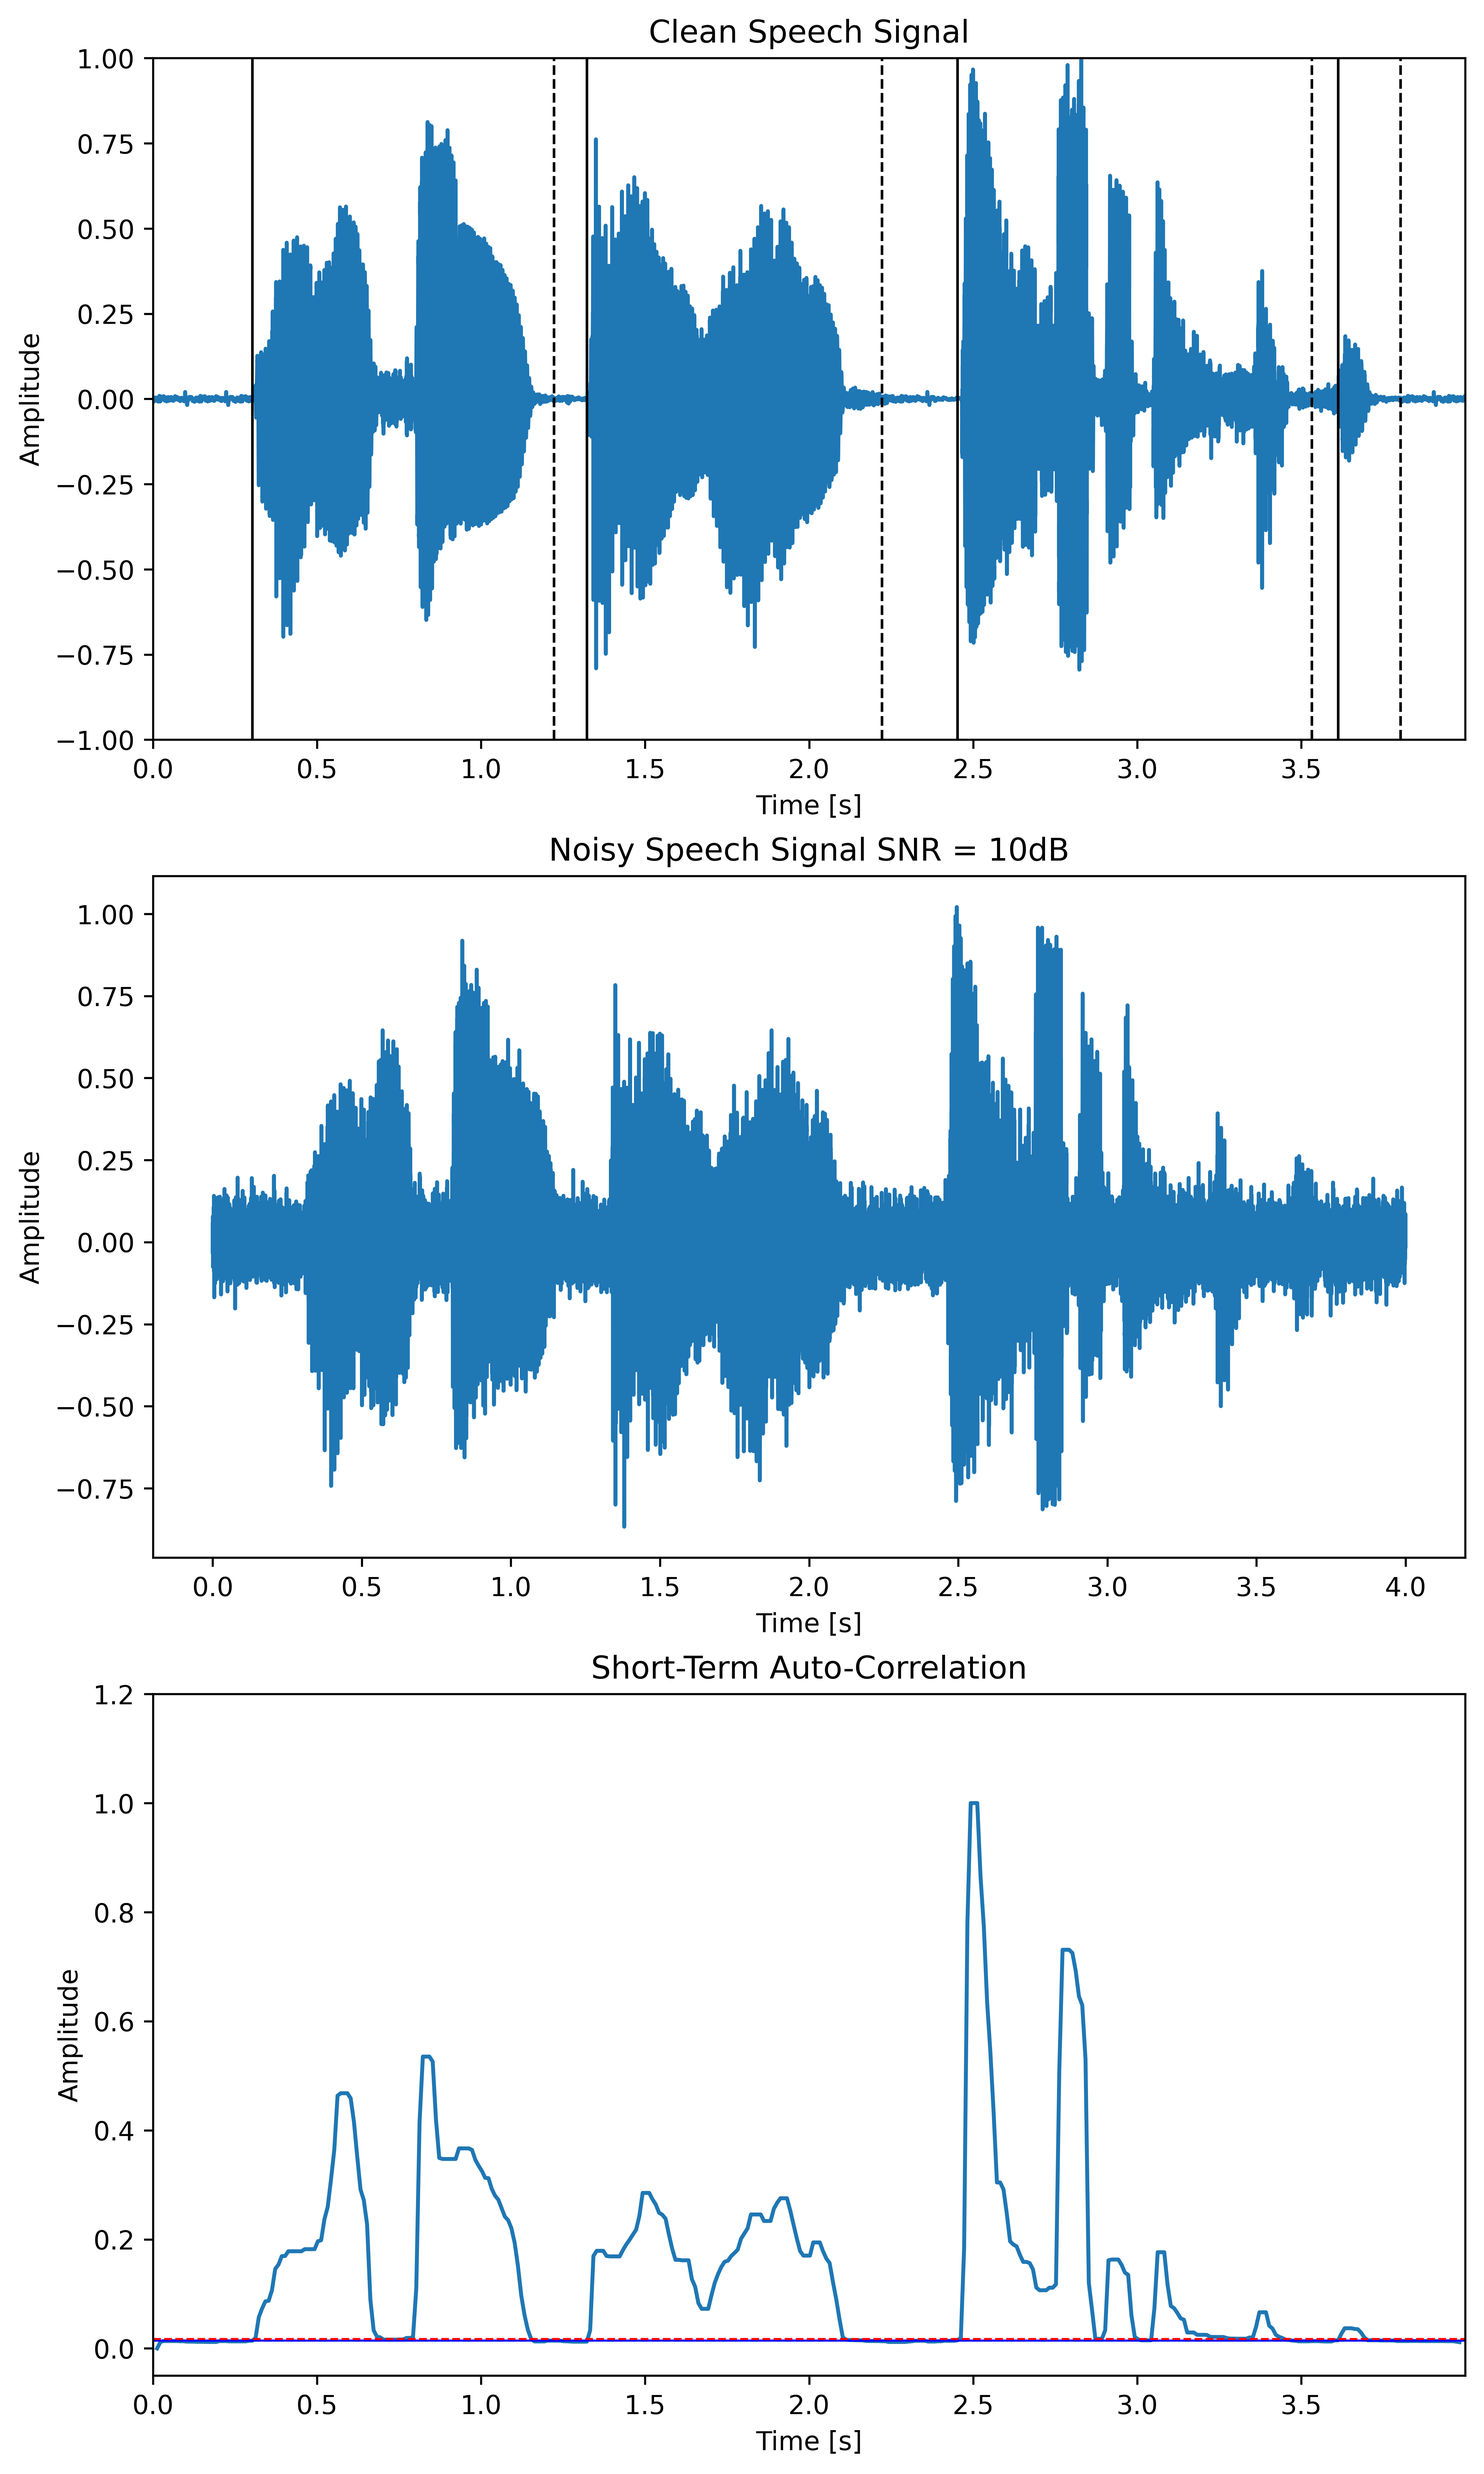
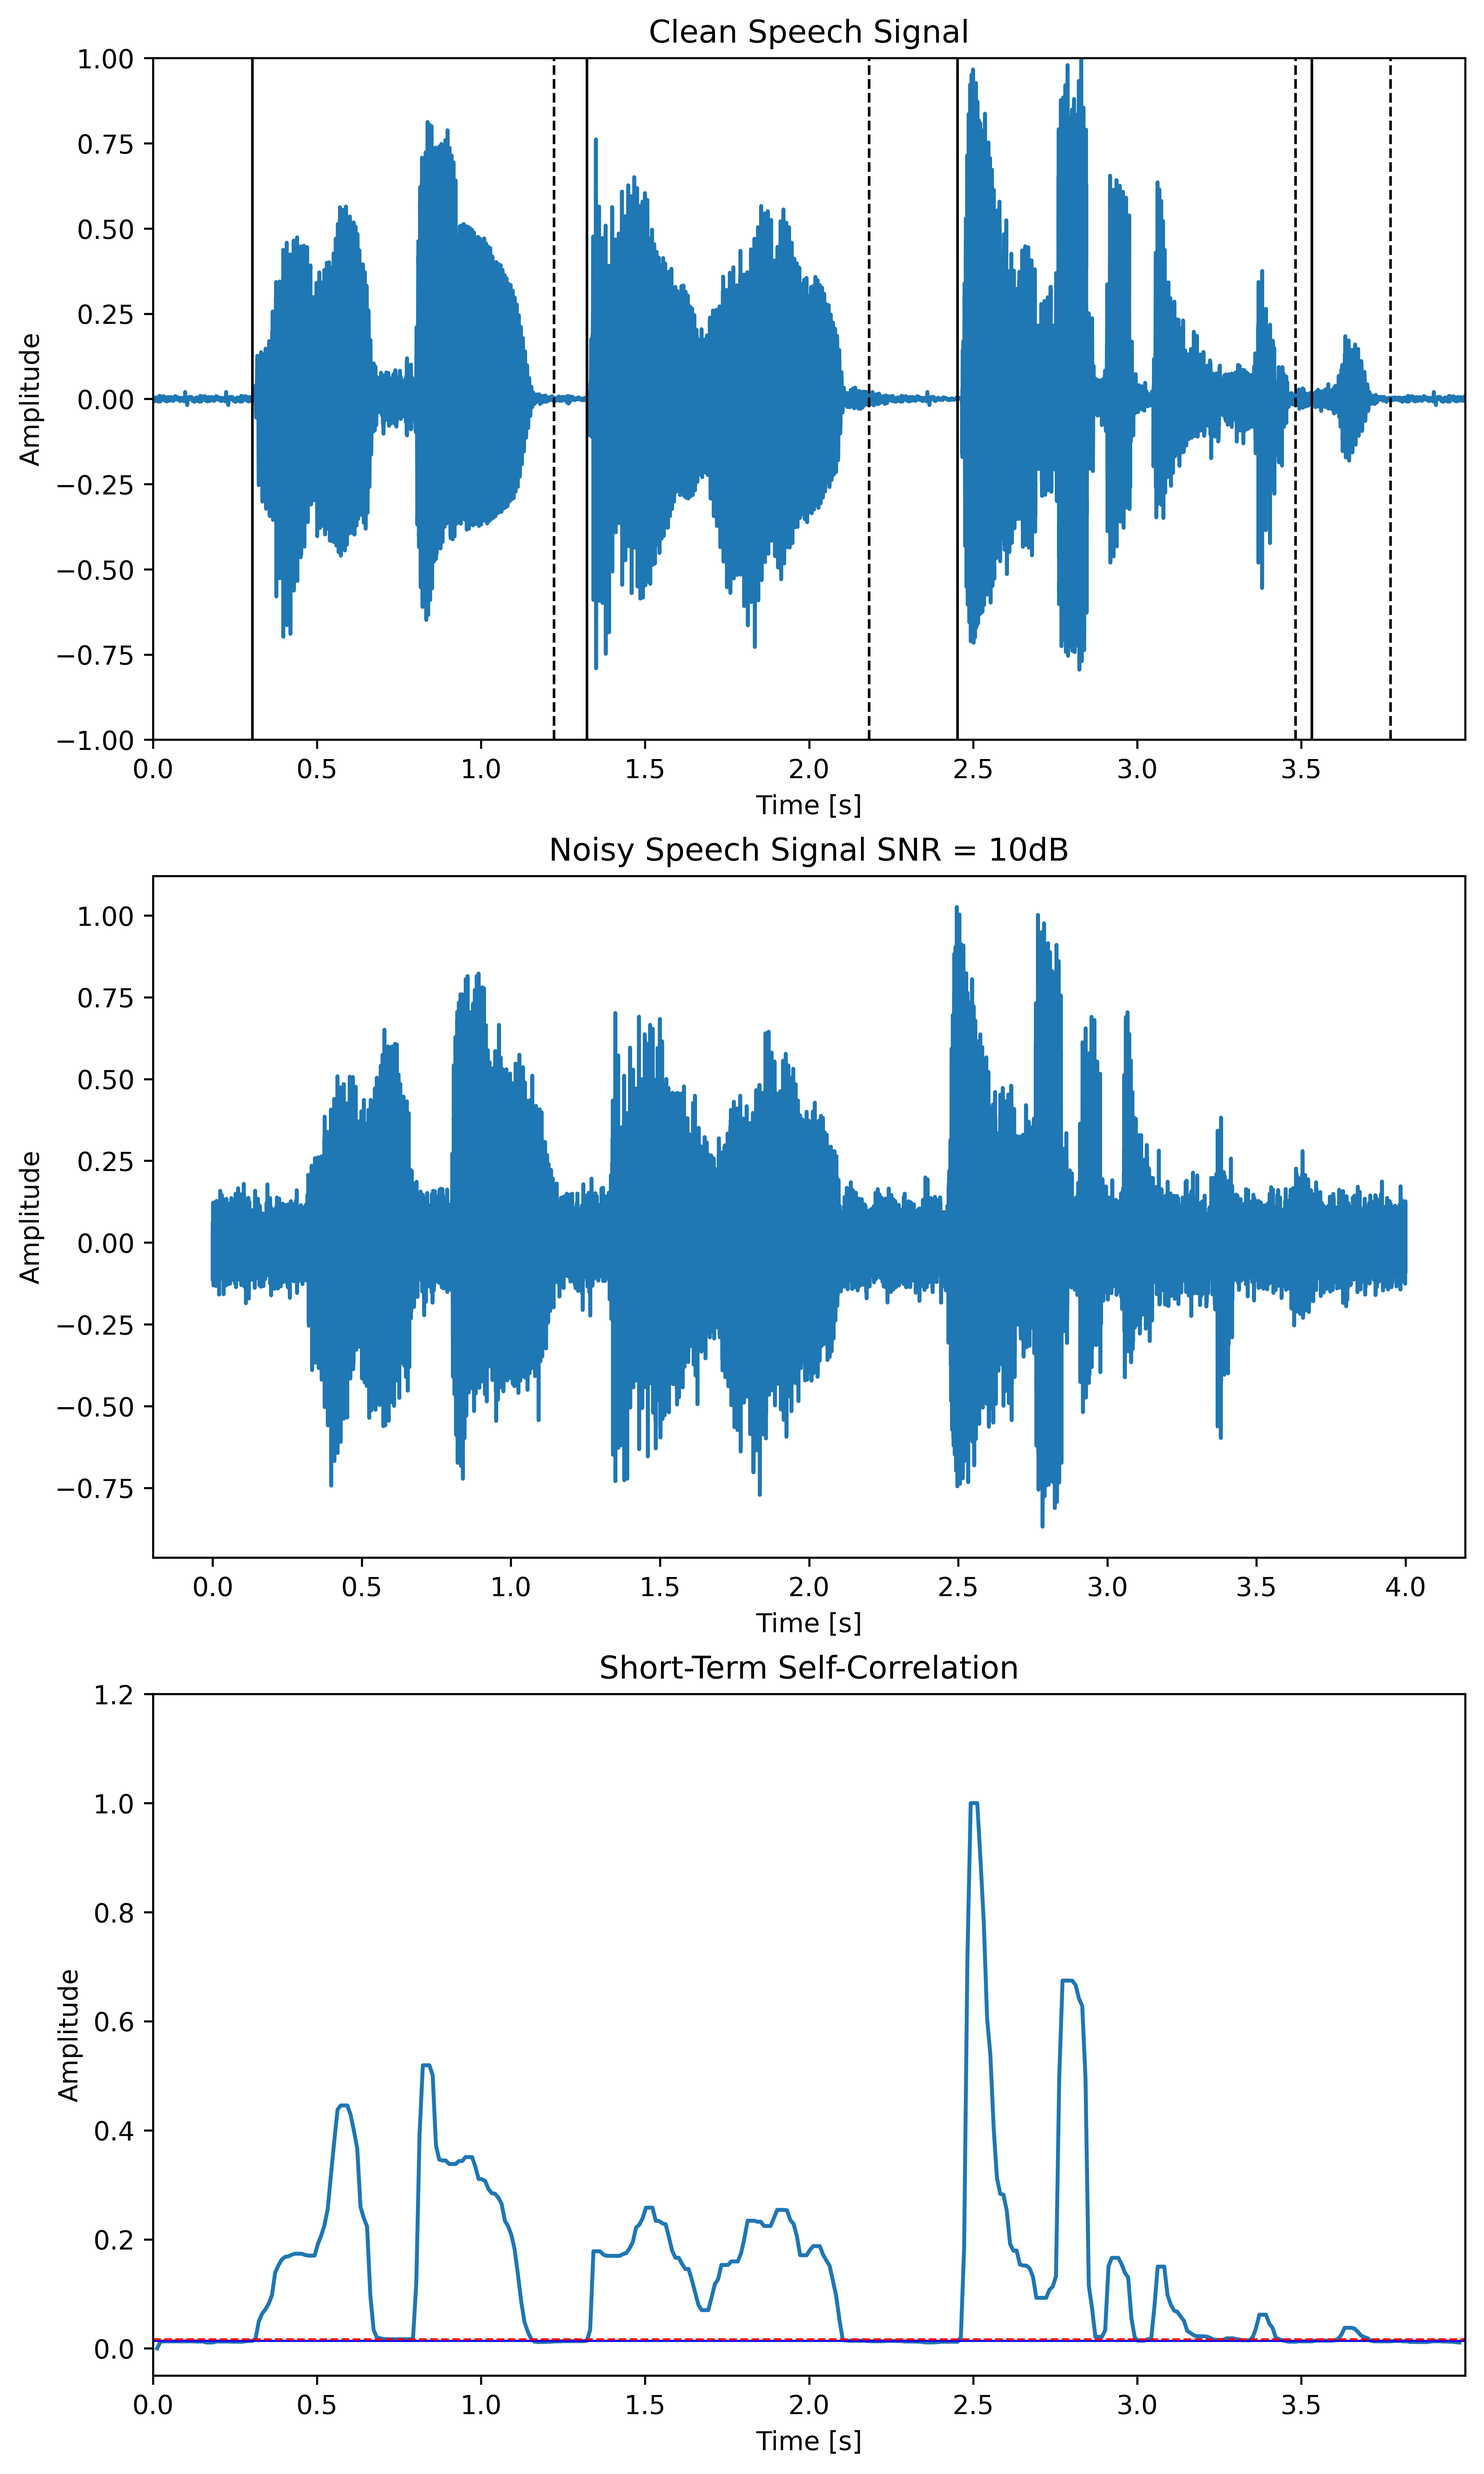
VAD(correlate)

diff --git a/Chapter6_EndpointDetection/pr6_3_4.py b/Chapter6_EndpointDetection/pr6_3_4.py
@@ -1,0 +1,90 @@
+#
+# pr6_3_4
+
+#
+# pr6_3_3
+
+from Universal import *
+from Noisy import *
+from VAD import *
+
+
+
+if __name__ == '__main__':
+	# Set_I
+	IS = 0.25  # unvoice segemnt length
+	wlen = 200  # frame length 25ms
+	inc = 80  # frame shift
+	filename = 'bluesky1.wav'
+	SNR = 10
+	
+	# PART_I
+	speech = Speech()
+	xx, fs = speech.audioread(filename, 8000)
+	xx = xx - np.mean(xx)  # DC
+	x = xx / np.max(xx)  # normalized
+	N = len(x)
+	time = np.arange(N) / fs
+	noisy = Noisy()
+	signal, _ = noisy.Gnoisegen(x, SNR)  # add noise
+	wnd = np.hamming(wlen)  # window function
+	overlap = wlen - inc
+	NIS = int((IS * fs - wlen) / inc + 1)  # unvoice segment frame number
+	y = speech.enframe(signal, list(wnd), inc).T
+	fn = y.shape[1]  # frame number
+	frameTime = speech.FrameTime(fn, wlen, inc, fs)  # frame to time
+	
+	R1 = np.zeros(fn)
+	for k in range(1, fn):
+		u = y[:, k]  # one frame
+		ru = np.correlate(u, u, 'full')  # self-correlate
+		ru0 = ru[wlen - 1]
+		ru1 = np.max(ru[wlen + 16 : wlen + 133])        # first secondary peak
+		R1[k] = ru0 / ru1
+	
+	vad = VAD()
+	Rum = vad.multimidfilter(R1, 20)  # smoothing
+	Rum = Rum / np.max(Rum)  # normalized
+	thredth = np.max(Rum[0: NIS])  # threshold
+	T1 = 0.95 * thredth
+	T2 = 0.75 * thredth
+	voiceseg, vsl, SF, NF = vad.vad_param1D_revr(Rum, T1, T2)
+	
+	# figure
+	plt.figure(figsize=(9, 16))
+	plt.subplot(3, 1, 1)
+	plt.plot(time, x)
+	plt.axis([0, np.max(time), -1, 1])
+	for k in range(vsl):
+		nx1 = voiceseg['begin'][k]
+		nx2 = voiceseg['end'][k]
+		nx3 = voiceseg['duration'][k]
+		print('{}, begin = {}, end = {}, duration = {}'.format(k + 1, nx1, nx2, nx3))
+		plt.plot(np.array([frameTime[nx1], frameTime[nx1]]), np.array([-1, 1]), 'k', linewidth=1)
+		plt.plot(np.array([frameTime[nx2], frameTime[nx2]]), np.array([-1, 1]), 'k--', linewidth=1)
+	
+	plt.xlabel('Time [s]')
+	plt.ylabel('Amplitude')
+	plt.title('Clean Speech Signal')
+	plt.subplot(3, 1, 2)
+	plt.plot(time, signal)
+	plt.xlabel('Time [s]')
+	plt.ylabel('Amplitude')
+	plt.title('Noisy Speech Signal SNR = {}dB'.format(SNR))
+	plt.subplot(3, 1, 3)
+	plt.plot(frameTime, Rum)
+	plt.plot(np.array([0, np.max(time)]), np.array([T1, T1]), 'b', linewidth=0.8)
+	plt.plot(np.array([0, np.max(time)]), np.array([T2, T2]), 'r--', linewidth=0.8)
+	for k in range(vsl):
+		nx1 = voiceseg['begin'][k]
+		nx2 = voiceseg['end'][k]
+		plt.plot(np.array([frameTime[nx1], frameTime[nx1]]), np.array([0, 1.2]), 'k', linewidth=1)
+		plt.plot(np.array([frameTime[nx2], frameTime[nx2]]), np.array([0, 1.2]), 'k--', linewidth=1)
+	plt.grid()
+	plt.axis([0, np.max(time), 0, 1.2])
+	plt.xlabel('Time [s]')
+	plt.ylabel('Amplitude')
+	plt.title('Short-term Auto-correlation Primary and Secondary Peak Ratio')
+	plt.savefig('images/vad_ratio_self_corr.png', bbox_inches='tight', dpi=600)
+	plt.show()
+

diff --git a/Chapter6_EndpointDetection/VAD.py b/Chapter6_EndpointDetection/VAD.py
@@ -159,3 +159,84 @@ class VAD:
 		vsl = len(voiceseg['begin'])
 		
 		return voiceseg, vsl, SF, NF
+	
+	def vad_param1D_revr(self, dst1, T1, T2):
+		"""
+		VAD with one parameter reverse threshold
+		:param dst1:
+		:param T1: threshold
+		:param T2:
+		:return voiceseg:
+		:return vsl:
+		:return SF:
+		:return NF:
+		"""
+		dst1 = dst1.reshape(-1, 1)
+		fn = dst1.shape[0]  # frame number
+		maxsilence = 8  # initialization
+		minlen = 5
+		status = 0
+		count = [0]
+		silence = [0]
+		
+		# Endpoint Detection
+		xn = 0
+		x1 = [0]
+		x2 = [0]
+		for n in range(1, fn):
+			if status == 0 or status == 1:  # 0:silence, 1: maybe start
+				if dst1[n] < T2:
+					x1[xn] = np.max([n - count[xn], 1])
+					status = 2
+					silence[xn] = 0
+					count[xn] = count[xn] + 1
+				elif dst1[n] < T1:  # maybe voice segment
+					status = 1
+					count[xn] = count[xn] + 1
+				else:
+					status = 0  # silence
+					count[xn] = 0
+					x1[xn] = 0
+					x2[xn] = 0
+			elif status == 2:  # voice
+				if dst1[n] < T1:
+					count[xn] = count[xn] + 1
+				else:
+					silence[xn] = silence[xn] + 1
+					if silence[xn] < maxsilence:  # silence exists, voice hasn't ended
+						count[xn] = count[xn] + 1
+					elif count[xn] < minlen:  # voice length too short, considered silent or noisy
+						status = 0
+						silence[xn] = 0
+						count[xn] = 0
+					else:  # voice end
+						status = 3
+						x2[xn] = x1[xn] + count[xn]
+			elif status == 3:  # voice end, prepare for next
+				status = 0
+				xn = xn + 1
+				count.append(0)
+				silence.append(0)
+				x1.append(0)
+				x2.append(0)
+		
+		el = len(x1)
+		if x1[el - 1] == 0:
+			el = el - 1  # x1 real length
+		if x2[el - 1] == 0:
+			print('Error: Not find endding point! \n')
+			x2[el - 1] = fn
+		
+		SF = np.zeros(fn)  # define SF & NF, according to x1, x2
+		NF = np.ones(fn)
+		
+		for i in range(el):
+			SF[(x1[i] - 1): x2[i]] = 1
+			NF[(x1[i] - 1): x2[i]] = 0
+		
+		SpeechIndex = np.where(SF == 1)  # voice segemnt
+		vad = VAD()
+		voiceseg = vad.findSegemnt(SpeechIndex)
+		vsl = len(voiceseg['begin'])
+		
+		return voiceseg, vsl, SF, NF
